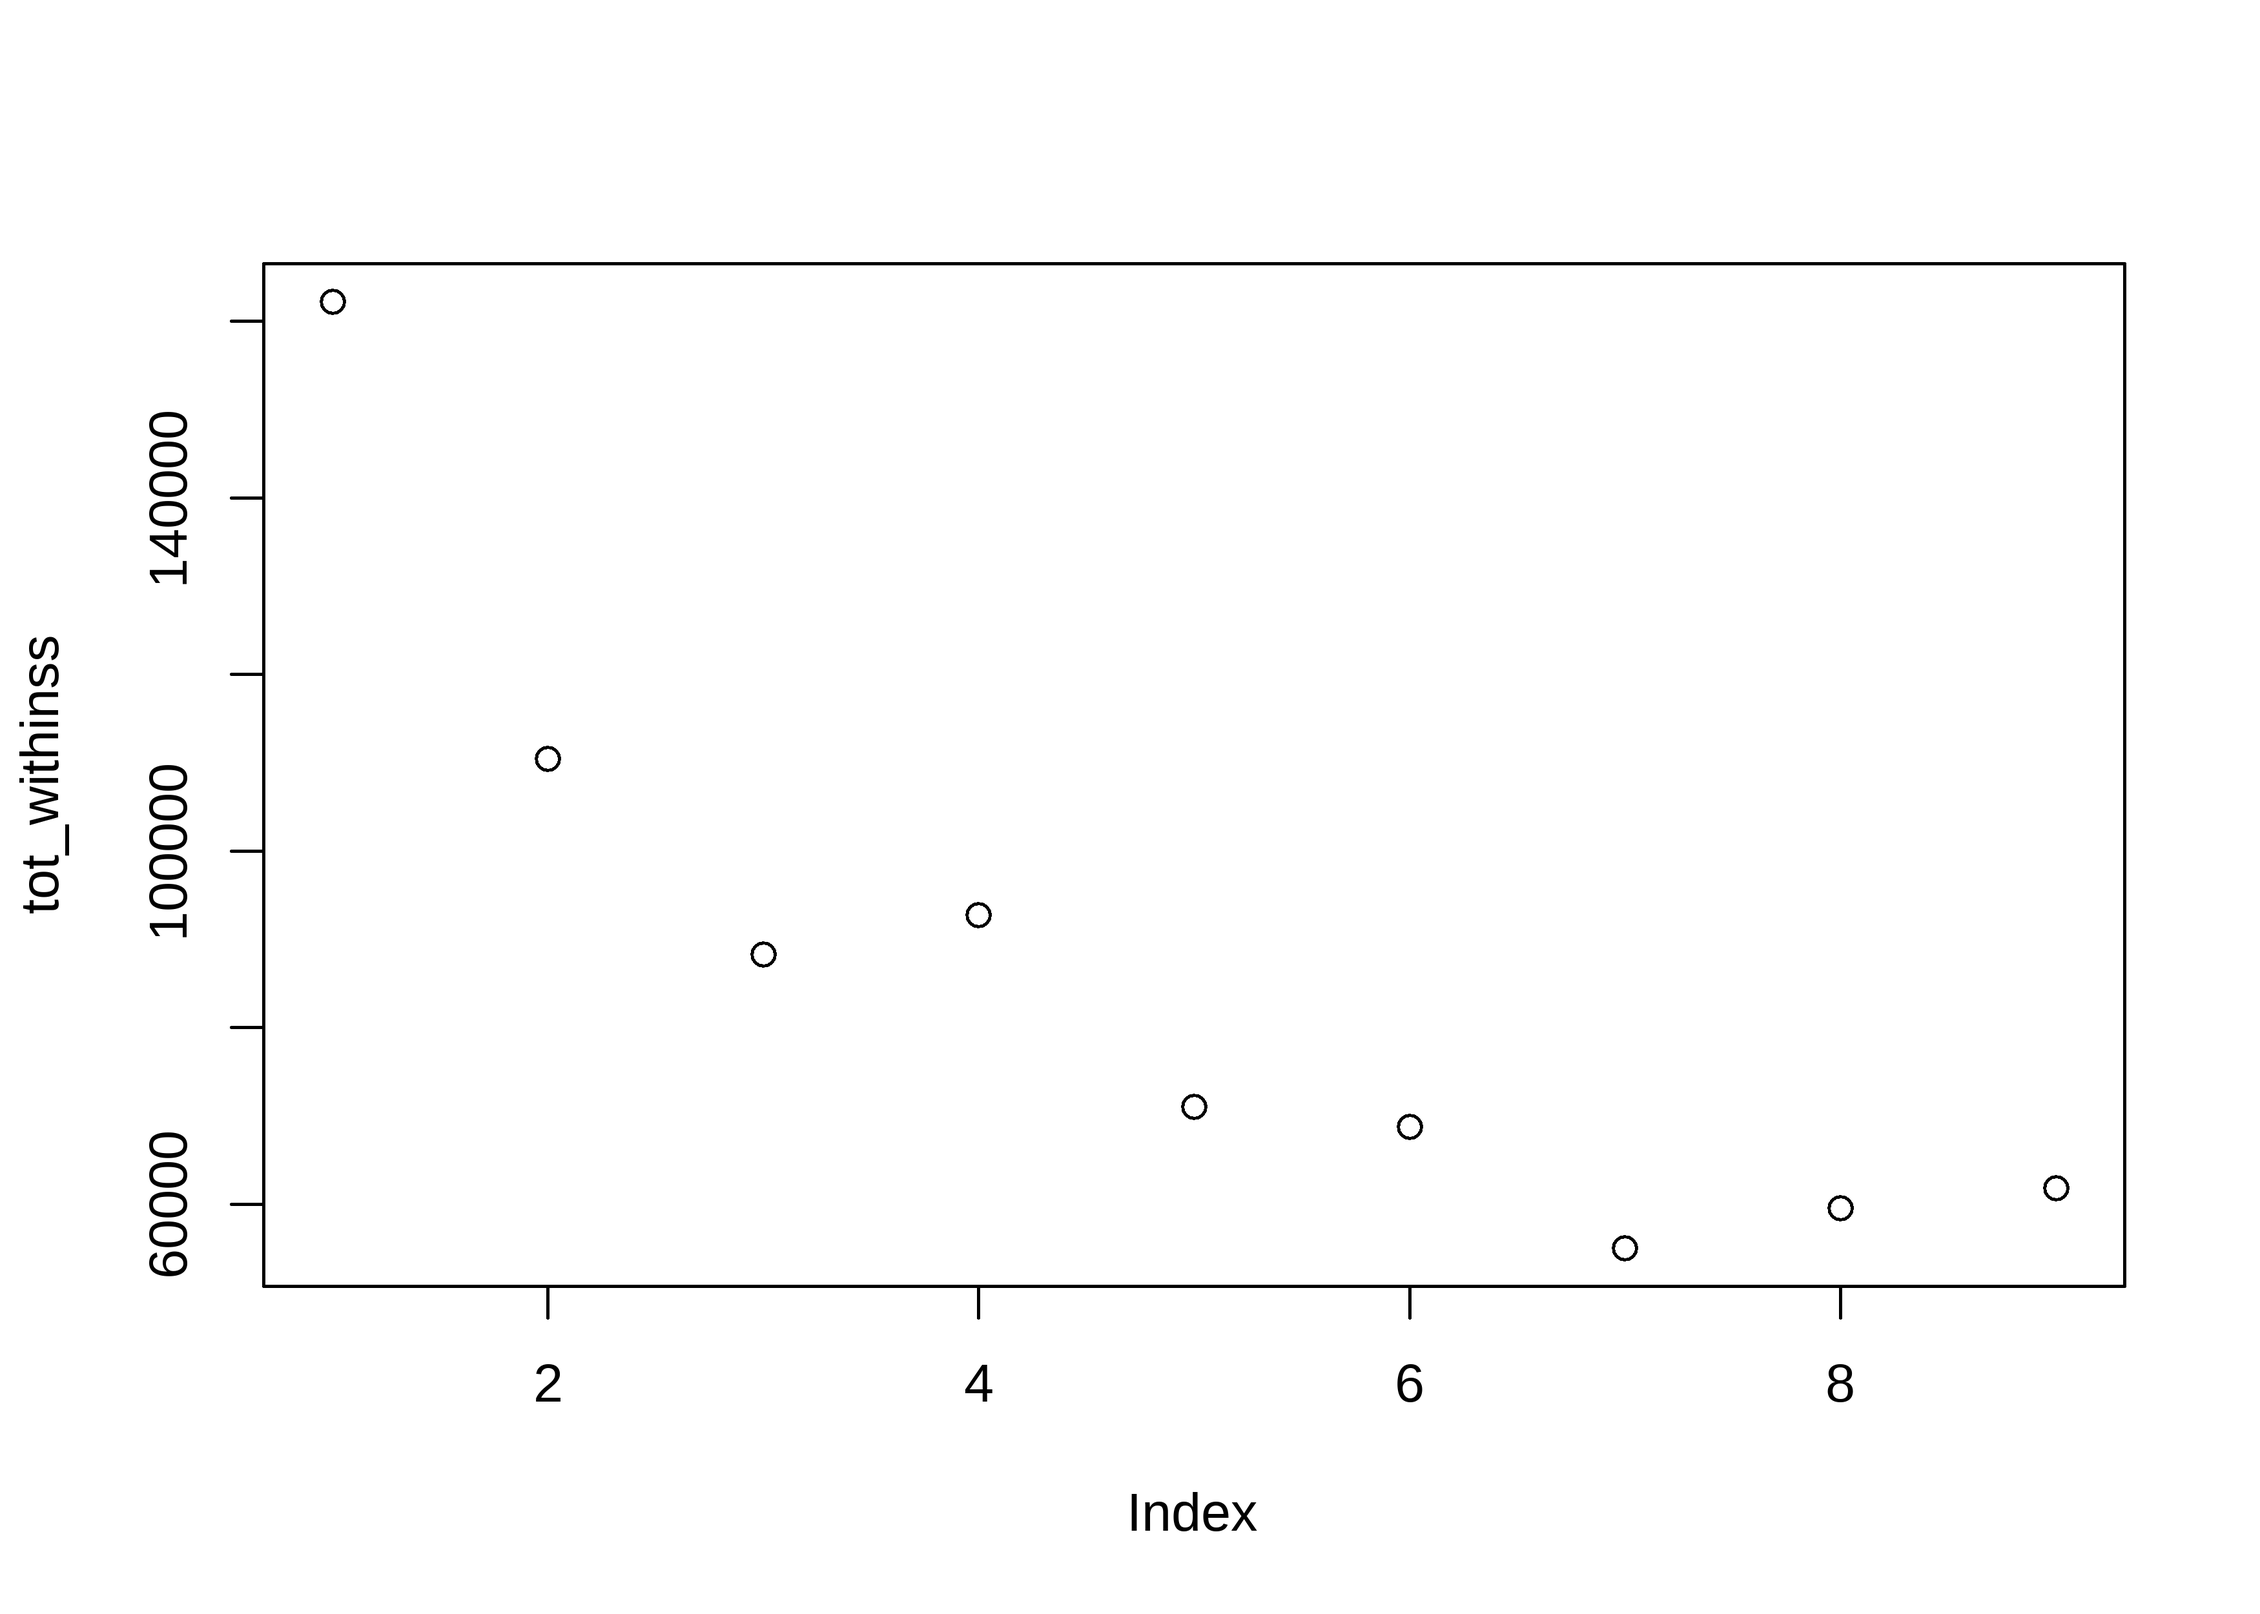
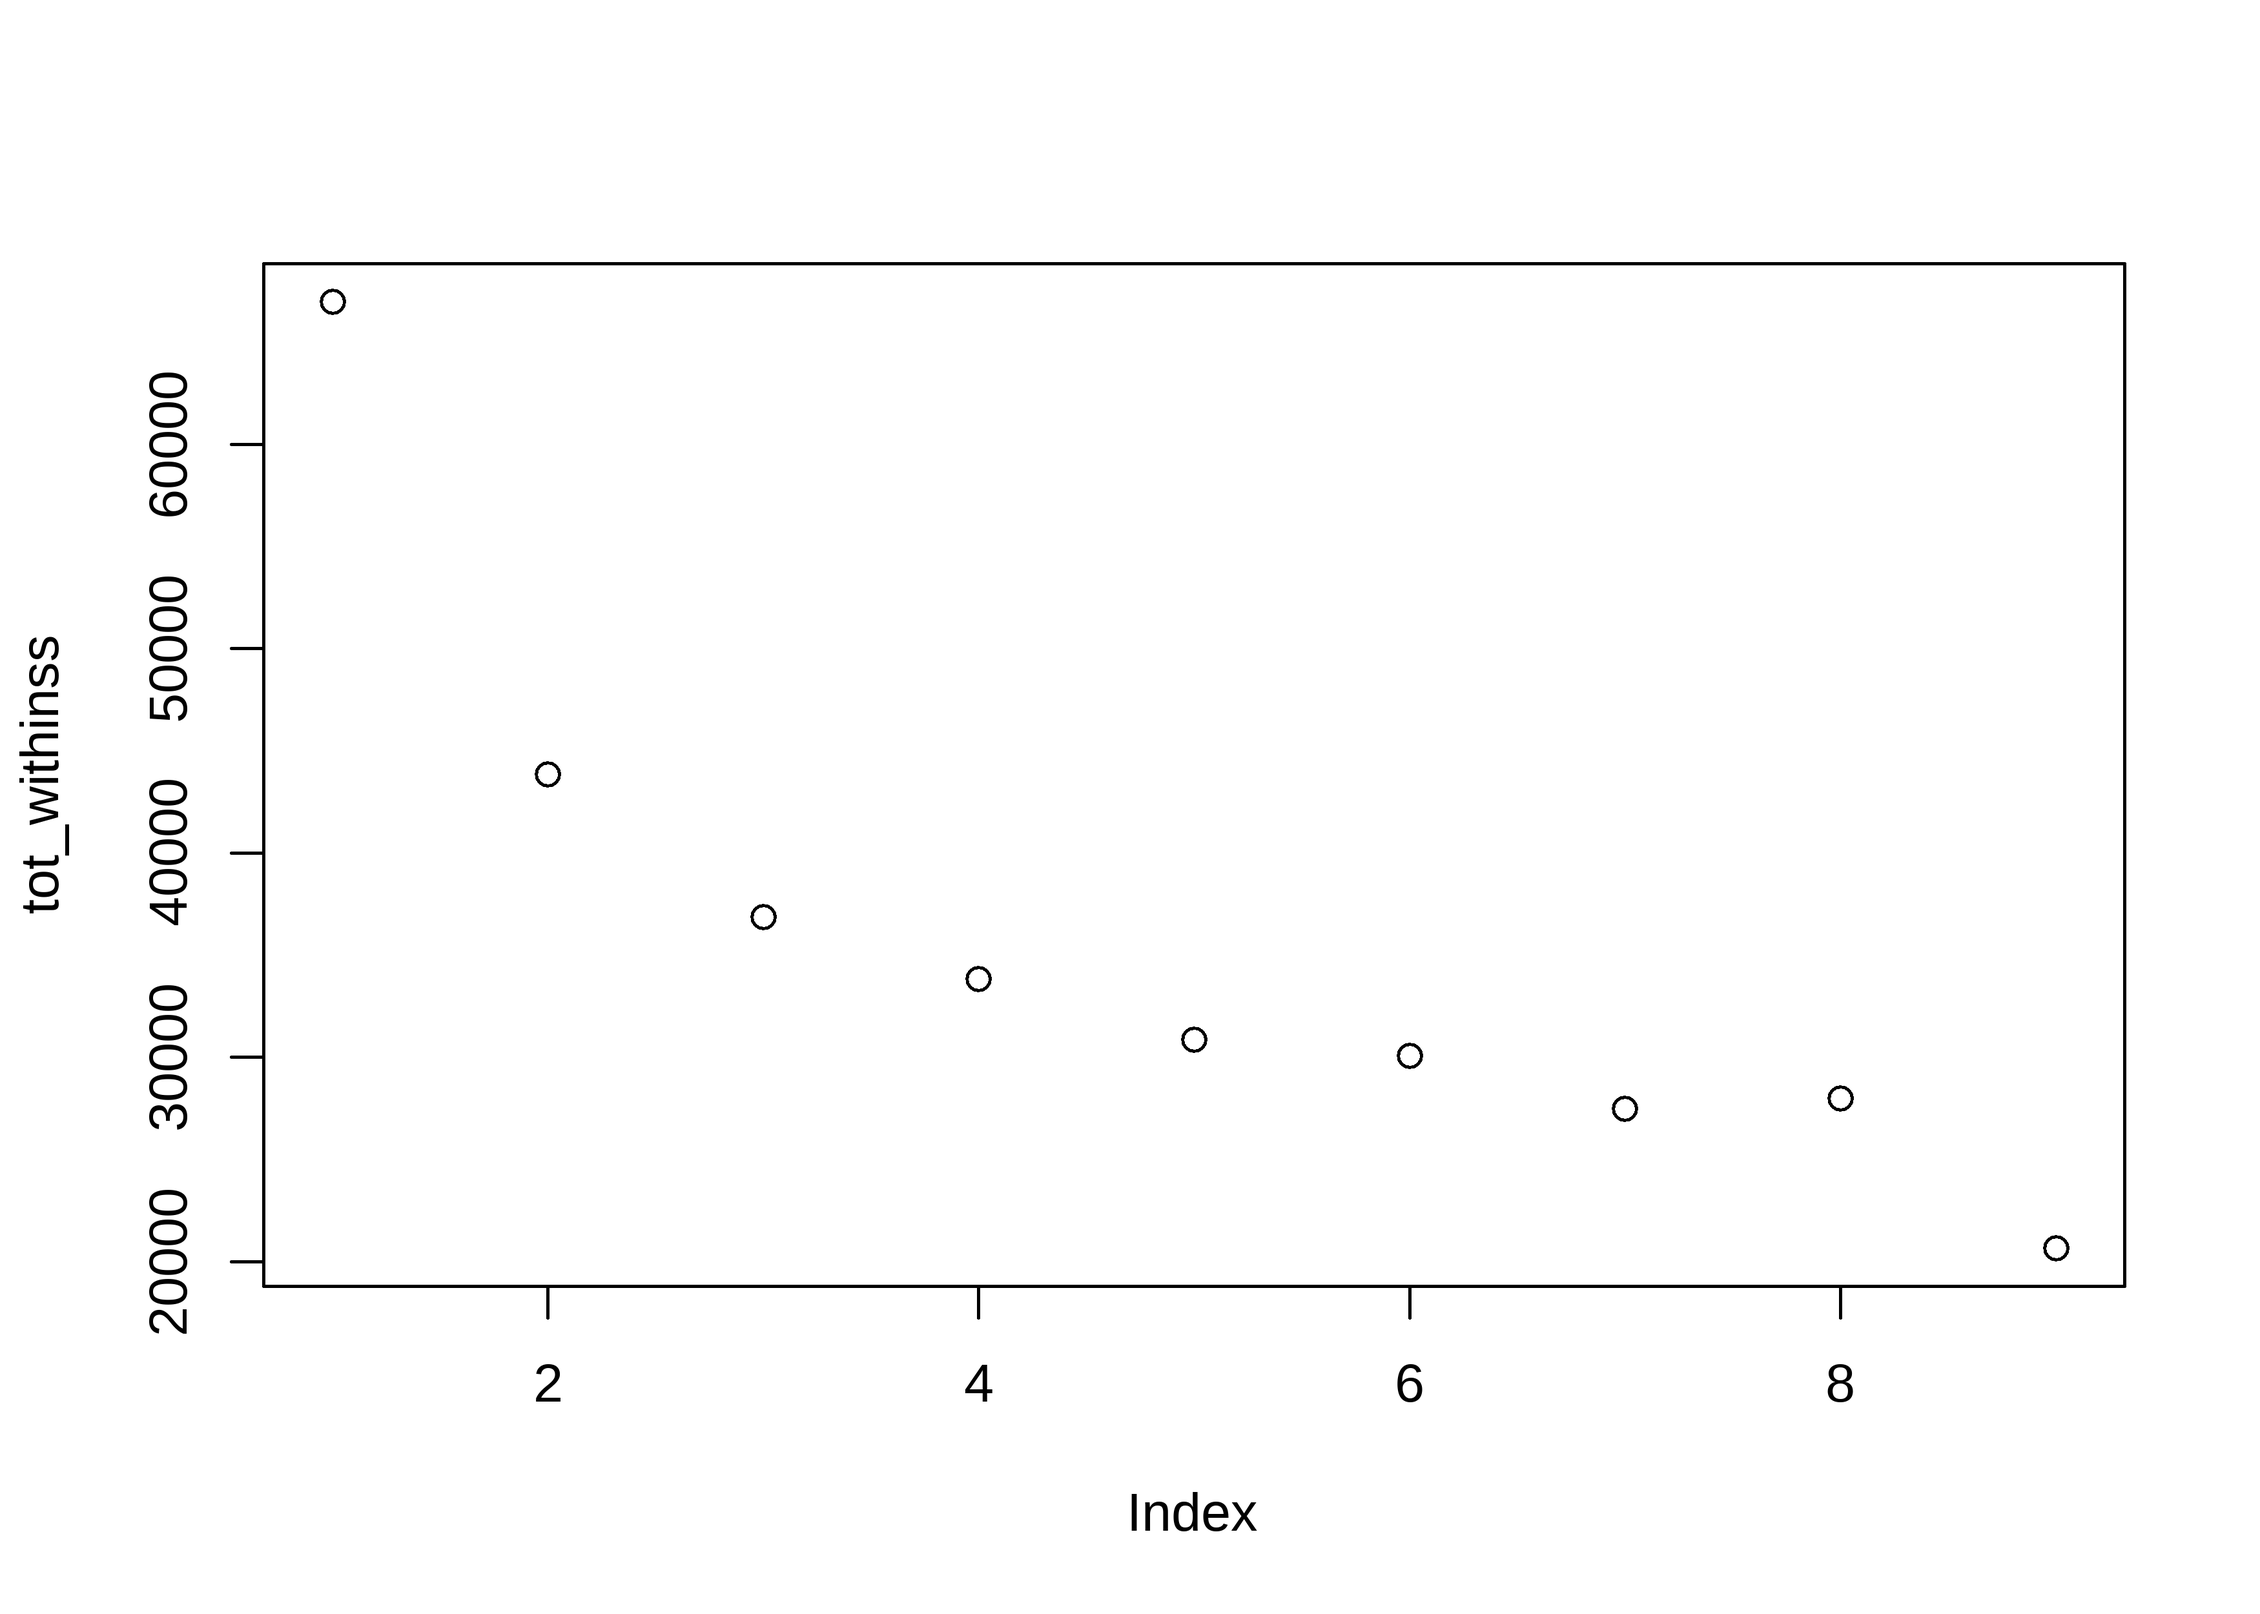
text

Changed region(s): [[0.0623, 0.468, 0.0934, 0.8424], [0.0623, 0.2184, 0.0934, 0.4368]]

diff --git a/2023/03-14-23/Drugs.md b/2023/03-14-23/Drugs.md
@@ -265,10 +265,13 @@ dlong %>%
 
 ### Cluster
 
+In order to cluster, we must first create a binary matrix. The following
+code is a concise way of doing so.
+
 ``` r
 unique_df <- dlong %>%
   filter(!is.na(main_thera)) %>% slice(-1666) %>% 
-  select(medicine_name, main_thera) %>% 
+  select(active_substance, main_thera) %>% 
   distinct()
 
 binary_matrix <- unique_df %>% 
@@ -276,11 +279,14 @@ binary_matrix <- unique_df %>%
   spread(key = main_thera, value = value, fill = 0)
 ```
 
+Next, a distance matrix is created, while ignoring the first column
+“*medicine name”*.
+
 ``` r
 dist_matrix <- dist(binary_matrix[,-1])
 
 tot_withinss <- map_dbl(2:10, function(k){
-  model <- kmeans(dist_matrix, centers = k, nstart = 5)
+  model <- kmeans(dist_matrix, centers = k, nstart = 8)
   model$tot.withinss
 })
 
@@ -292,14 +298,14 @@ plot(tot_withinss)
 ``` r
 clusters <- kmeans(dist_matrix, 4, 5)
 
-new_df <- data.frame(medicine_name = binary_matrix$medicine_name,
+new_df <- data.frame(active_substance = binary_matrix$active_substance,
                      cluster = clusters$cluster)
 
 dlong_cluster <- dlong %>% 
   left_join(new_df)
 ```
 
-    ## Joining, by = "medicine_name"
+    ## Joining, by = "active_substance"
 
 ``` r
 dlong_cluster %>% 
@@ -310,42 +316,42 @@ dlong_cluster %>%
   arrange(-n, -prop)
 ```
 
-    ## # A tibble: 682 x 4
-    ## # Groups:   marketing_authorisation_holder_company_name [544]
+    ## # A tibble: 736 x 4
+    ## # Groups:   marketing_authorisation_holder_company_name [550]
     ##    marketing_authorisation_holder_company_name cluster     n  prop
     ##    <chr>                                         <int> <int> <dbl>
-    ##  1 Accord Healthcare S.L.U.                          4    75 0.682
-    ##  2 Sandoz GmbH                                       4    67 0.985
-    ##  3 GlaxoSmithKline Biologicals S.A.                  4    65 1    
-    ##  4 Novartis Europharm Limited                        4    52 0.578
-    ##  5 Bristol-Myers Squibb Pharma EEIG                  4    49 0.731
-    ##  6 Merck Sharp & Dohme B.V.                          4    48 0.706
-    ##  7 Pfizer Europe MA EEIG                             4    48 0.64 
-    ##  8 Samsung Bioepis NL B.V.                           4    40 1    
-    ##  9 Celltrion Healthcare Hungary Kft.                 4    39 0.975
-    ## 10 Novartis Europharm Limited                        2    36 0.4  
-    ## # ... with 672 more rows
+    ##  1 Sandoz GmbH                                       1    48 0.706
+    ##  2 Accord Healthcare S.L.U.                          4    48 0.436
+    ##  3 Novartis Europharm Limited                        4    41 0.456
+    ##  4 Samsung Bioepis NL B.V.                           1    38 0.95 
+    ##  5 Bristol-Myers Squibb Pharma EEIG                  1    38 0.567
+    ##  6 Accord Healthcare S.L.U.                          1    38 0.345
+    ##  7 Celltrion Healthcare Hungary Kft.                 1    37 0.925
+    ##  8 GlaxoSmithKline Biologicals S.A.                  4    36 0.554
+    ##  9 Merck Sharp & Dohme B.V.                          1    35 0.515
+    ## 10 Novartis Europharm Limited                        2    35 0.389
+    ## # ... with 726 more rows
 
 ``` r
 dlong_cluster %>% 
   filter(!is.na(main_thera)) %>% 
-  group_by(cluster) %>% 
-  count(main_thera) %>% 
-  arrange(-cluster, -n)
+  group_by(cluster, main_thera) %>% 
+  count(active_substance) %>% 
+  arrange(-cluster, -n) 
 ```
 
-    ## # A tibble: 606 x 3
-    ## # Groups:   cluster [4]
-    ##    cluster main_thera                       n
-    ##      <int> <chr>                        <int>
-    ##  1       4 Arthritis                       92
-    ##  2       4 Carcinoma                       70
-    ##  3       4 Immunization                    54
-    ##  4       4 Breast Neoplasms                46
-    ##  5       4 Cancer                          39
-    ##  6       4 Myocardial Infarction           36
-    ##  7       4 Stroke                          32
-    ##  8       4 Leukemia                        31
-    ##  9       4 Psoriasis                       30
-    ## 10       4 Peripheral Vascular Diseases    29
-    ## # ... with 596 more rows
+    ## # A tibble: 1,806 x 4
+    ## # Groups:   cluster, main_thera [683]
+    ##    cluster main_thera         active_substance      n
+    ##      <int> <chr>              <chr>             <int>
+    ##  1       4 Rhinitis           desloratadine        18
+    ##  2       4 Bipolar Disorder   olanzapine           12
+    ##  3       4 Neutropenia        pegfilgrastim        12
+    ##  4       4 Schizophrenia      olanzapine           12
+    ##  5       4 Anxiety Disorders  pregabalin            9
+    ##  6       4 Epilepsy           pregabalin            9
+    ##  7       4 Leukemia           azacitidine           9
+    ##  8       4 Neutropenia        filgrastim            9
+    ##  9       4 Alzheimer Disease  rivastigmine          8
+    ## 10       4 Multiple Sclerosis dimethyl fumarate     8
+    ## # ... with 1,796 more rows
